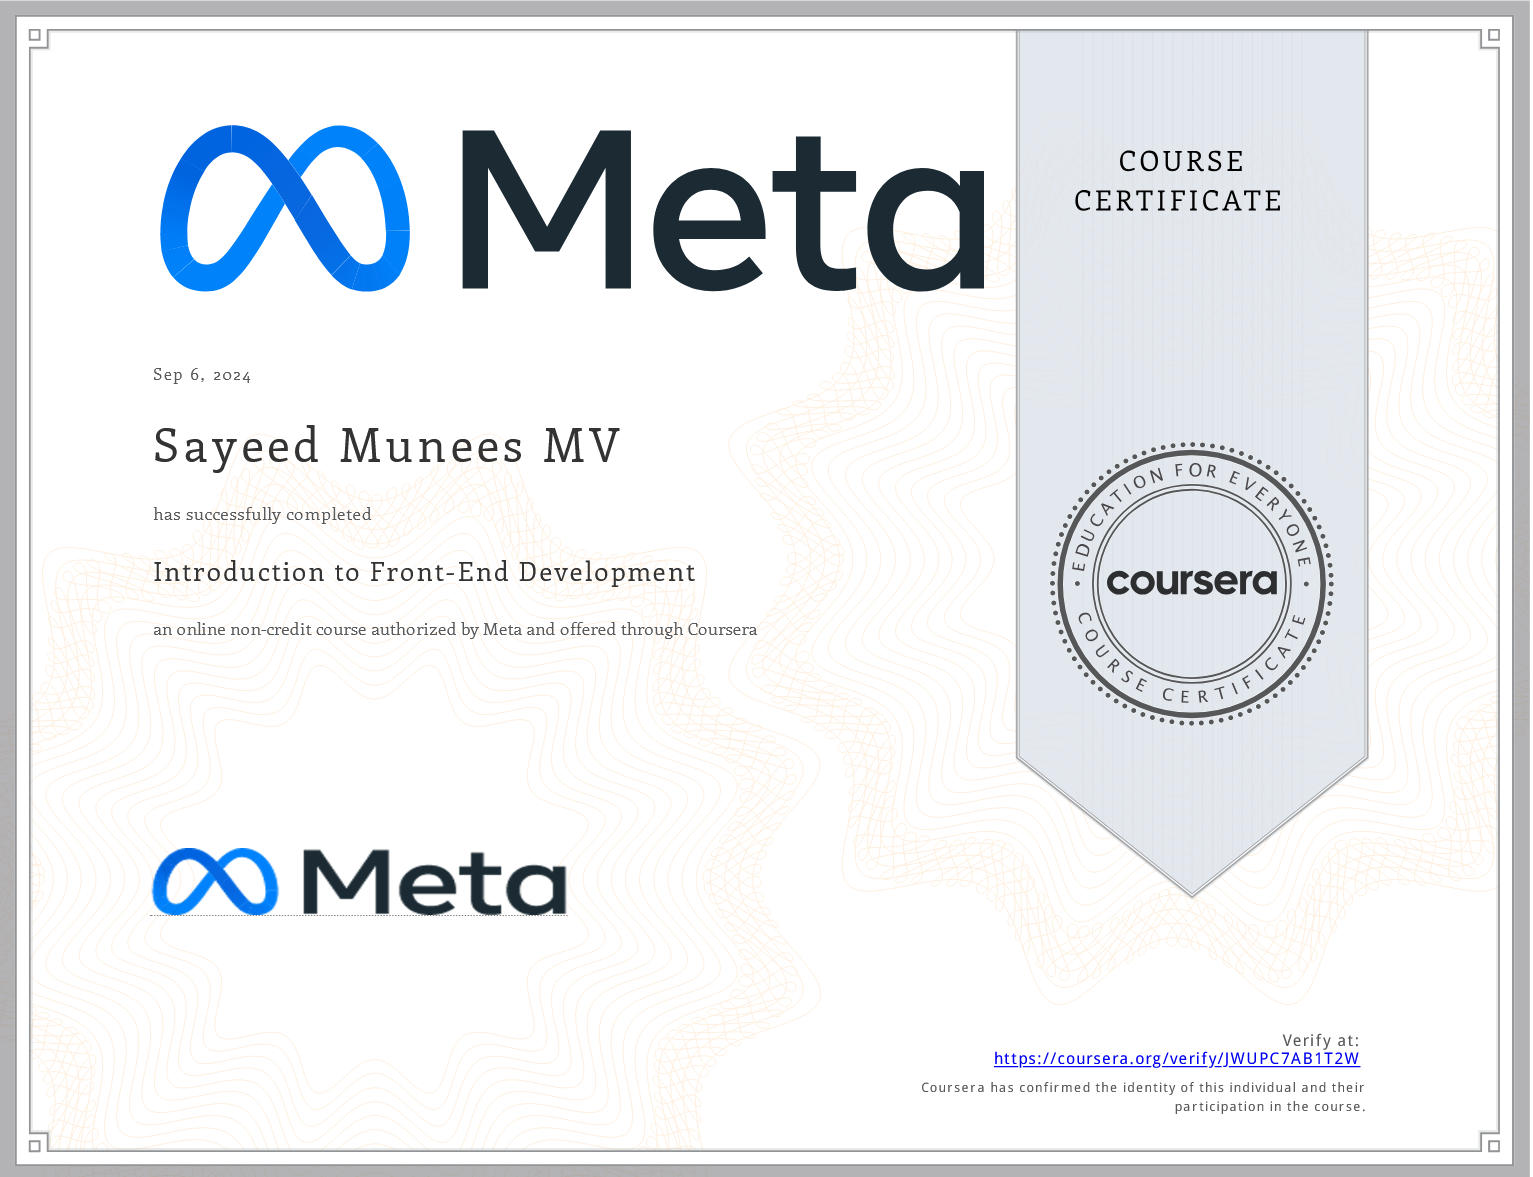
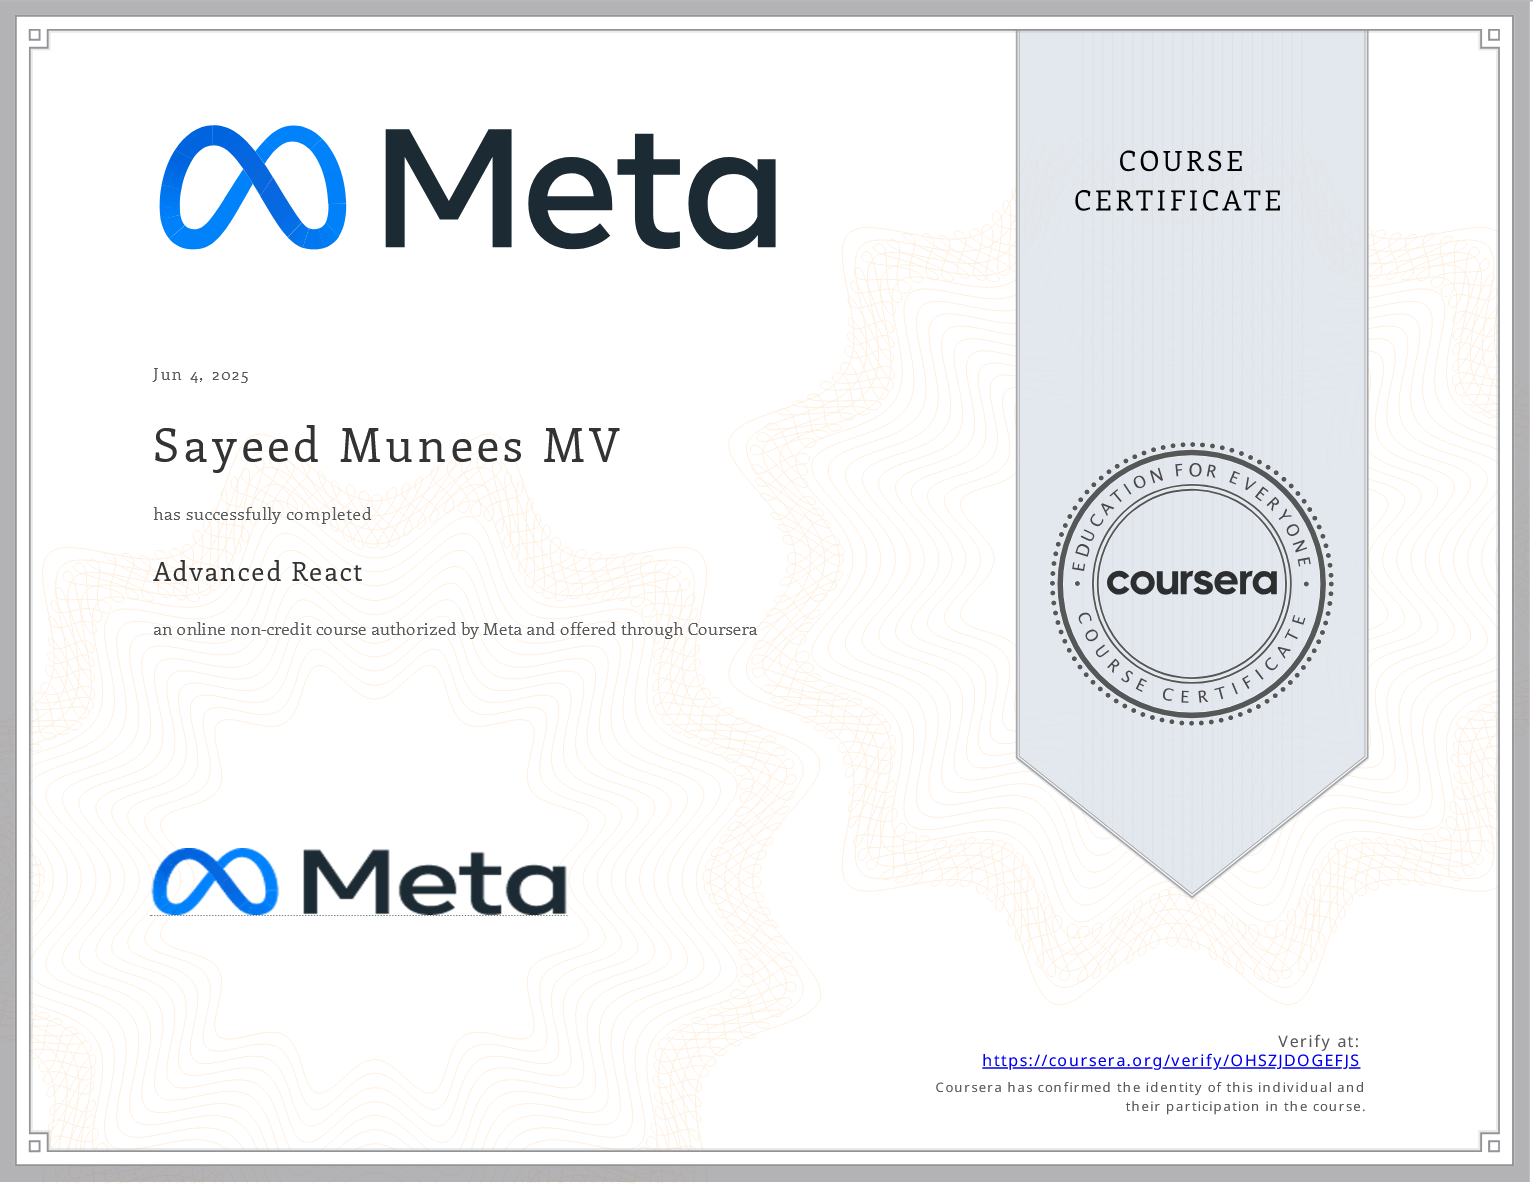
updated

diff --git a/index.html b/index.html
@@ -143,7 +143,9 @@
             <div class="project-text">
               <h2>Mercedes-AMG G 63 Landing Page</h2>
               <p>
-                Designed and developed a sleek landing page prototype for the Mercedes-AMG G 63, built using vanilla CSS with Flexbox. The design highlights the power and elegance of this iconic vehicle.
+                Designed and developed a sleek landing page prototype for the
+                Mercedes-AMG G 63, built using vanilla CSS with Flexbox. The
+                design highlights the power and elegance of this iconic vehicle.
               </p>
             </div>
             <div class="project-image">
@@ -186,57 +188,65 @@
         <div id="certificates-cards-container">
           <div class="certificate-card">
             <img src="./assets/certificate-1.png" alt="" />
-            <h1>Heading</h1>
+            <h1>Advanced React – Meta (Coursera)</h1>
             <p>
-              Lorem ipsum dolor sit amet consectetur adipisicing elit. Quos
-              obcaecati, alias facere possimus saepe accusamus est ullam debitis
-              voluptatum repellat at deleniti eligendi nihil vero nemo iure
-              laudantium quibusdam illum.
+              Covers advanced React topics including performance, state
+              management, custom hooks, and testing. Demonstrates the ability to
+              build scalable and maintainable React applications.
             </p>
           </div>
           <div class="certificate-card">
-            <img src="./assets/certificate-1.png" alt="" />
-            <h1>Heading</h1>
+            <img src="./assets/certificate-2.png" alt="" />
+            <h1>React Basics – Meta (Coursera)</h1>
             <p>
-              Lorem ipsum dolor sit amet consectetur adipisicing elit. Quos
-              obcaecati, alias facere possimus saepe accusamus est ullam debitis
-              voluptatum repellat at deleniti eligendi nihil vero nemo iure
-              laudantium quibusdam illum.
+              Introduces the fundamentals of React, including components, JSX,
+              props, and state. Builds a solid foundation for developing
+              interactive user interfaces.
             </p>
           </div>
           <div class="certificate-card">
-            <img src="./assets/certificate-1.png" alt="" />
-            <h1>Heading</h1>
+            <img src="./assets/certificate-3.png" alt="" />
+            <h1>
+              Foundations of User Experience (UX) Design – Google (Coursera)
+            </h1>
             <p>
-              Lorem ipsum dolor sit amet consectetur adipisicing elit. Quos
-              obcaecati, alias facere possimus saepe accusamus est ullam debitis
-              voluptatum repellat at deleniti eligendi nihil vero nemo iure
-              laudantium quibusdam illum.
+              Covers core UX principles, including user-centered design,
+              wireframing, and research. Builds a strong base for creating
+              effective and user-friendly digital experiences.
             </p>
           </div>
           <div class="certificate-card">
-            <img src="./assets/certificate-1.png" alt="" />
-            <h1>Heading</h1>
+            <img src="./assets/certificate-4.png" alt="" />
+            <h1>HTML and CSS in Depth – Meta (Coursera)</h1>
             <p>
-              Lorem ipsum dolor sit amet consectetur adipisicing elit. Quos
-              obcaecati, alias facere possimus saepe accusamus est ullam debitis
-              voluptatum repellat at deleniti eligendi nihil vero nemo iure
-              laudantium quibusdam illum.
+              Explores advanced HTML and CSS concepts, including flexbox, grid,
+              animations, and responsive design. Strengthens skills for building
+              modern, accessible web pages.
             </p>
           </div>
           <div class="certificate-card">
-            <img src="./assets/certificate-1.png" alt="" />
-            <h1>Heading</h1>
+            <img src="./assets/certificate-5.png" alt="" />
+            <h1>Programming with JavaScript – Meta (Coursera)</h1>
             <p>
-              Lorem ipsum dolor sit amet consectetur adipisicing elit. Quos
-              obcaecati, alias facere possimus saepe accusamus est ullam debitis
-              voluptatum repellat at deleniti eligendi nihil vero nemo iure
-              laudantium quibusdam illum.
+              Covers core JavaScript concepts like variables, functions,
+              objects, and control flow. Builds foundational skills for web
+              development and interactive applications.
             </p>
           </div>
-          <div class="certificate-card" id="certificate-show-more">
+          <div class="certificate-card">
+            <img src="./assets/certificate-6.png" alt="" />
+            <h1>
+              Programming for Everybody – University of Michigan (Coursera)
+            </h1>
+            <p>
+              Introduces programming using Python, focusing on basics like
+              variables, loops, and functions. Designed to make coding
+              accessible to beginners from all backgrounds.
+            </p>
+          </div>
+          <!-- <div class="certificate-card" id="certificate-show-more">
             <a href="">Show more+</a>
-          </div>
+          </div> -->
         </div>
       </section>
 

diff --git a/style.css b/style.css
@@ -481,104 +481,3 @@ footer {
 footer p {
   text-align: center;
 }
-
-
-/* FONTS */
-
-/* 
-.playfair-display-<uniquifier> {
-  font-family: "Playfair Display", serif;
-  font-optical-sizing: auto;
-  font-weight: <weight>;
-  font-style: normal;
-}
-} */
-
-/* .dm-sans-<uniquifier> {
-  font-family: "DM Sans", sans-serif;
-  font-optical-sizing: auto;
-  font-weight: <weight>;
-  font-style: normal;
-} */
-
-
-/* nav-bar
-
-nav,
-.nav-links {
-  display: flex;
-}
-
-nav img{
-  width: 200px;
-  justify-self: flex-start;
-}
-
-nav {
-  justify-content: space-between;
-  align-items: center;
-  height: 17vh;
-}
-
-.nav-links {
-  gap: 2rem;
-  list-style: none;
-  font-size: 18px;
-}
-
-a {
-  color: black;
-  text-decoration: none;
-  text-decoration-color: white;
-}
-
-a:hover {
-  color: grey;
-  text-decoration: underline;
-  text-underline-offset: 1rem;
-  text-decoration-color: rgb(181, 181, 181);
-}
-
-section{
-    display: grid;
-    grid-template-columns: 5% repeat(6, 14%) 5%;
-    gap: 1%;
-    height: 100vh;
-}
-
-#profile{
-  text-align: left;
-  align-items: center;
-}
-
-#profile-text{
-  grid-column: 3/8;
-  padding-bottom: 10rem;
-}
-
-#profile-text h1{
-  font-family: Playfair;
-}
-
-#profile-links{
-  list-style: none;
-  display: flex;
-  gap: 1rem;
-}
-
-
-.page-name{
-  grid-column: 2/3;
-  text-align: left;
-}
-
-
-*/
-
-
-
-
-
-/* img{
-    width: 200px;
-}  */
